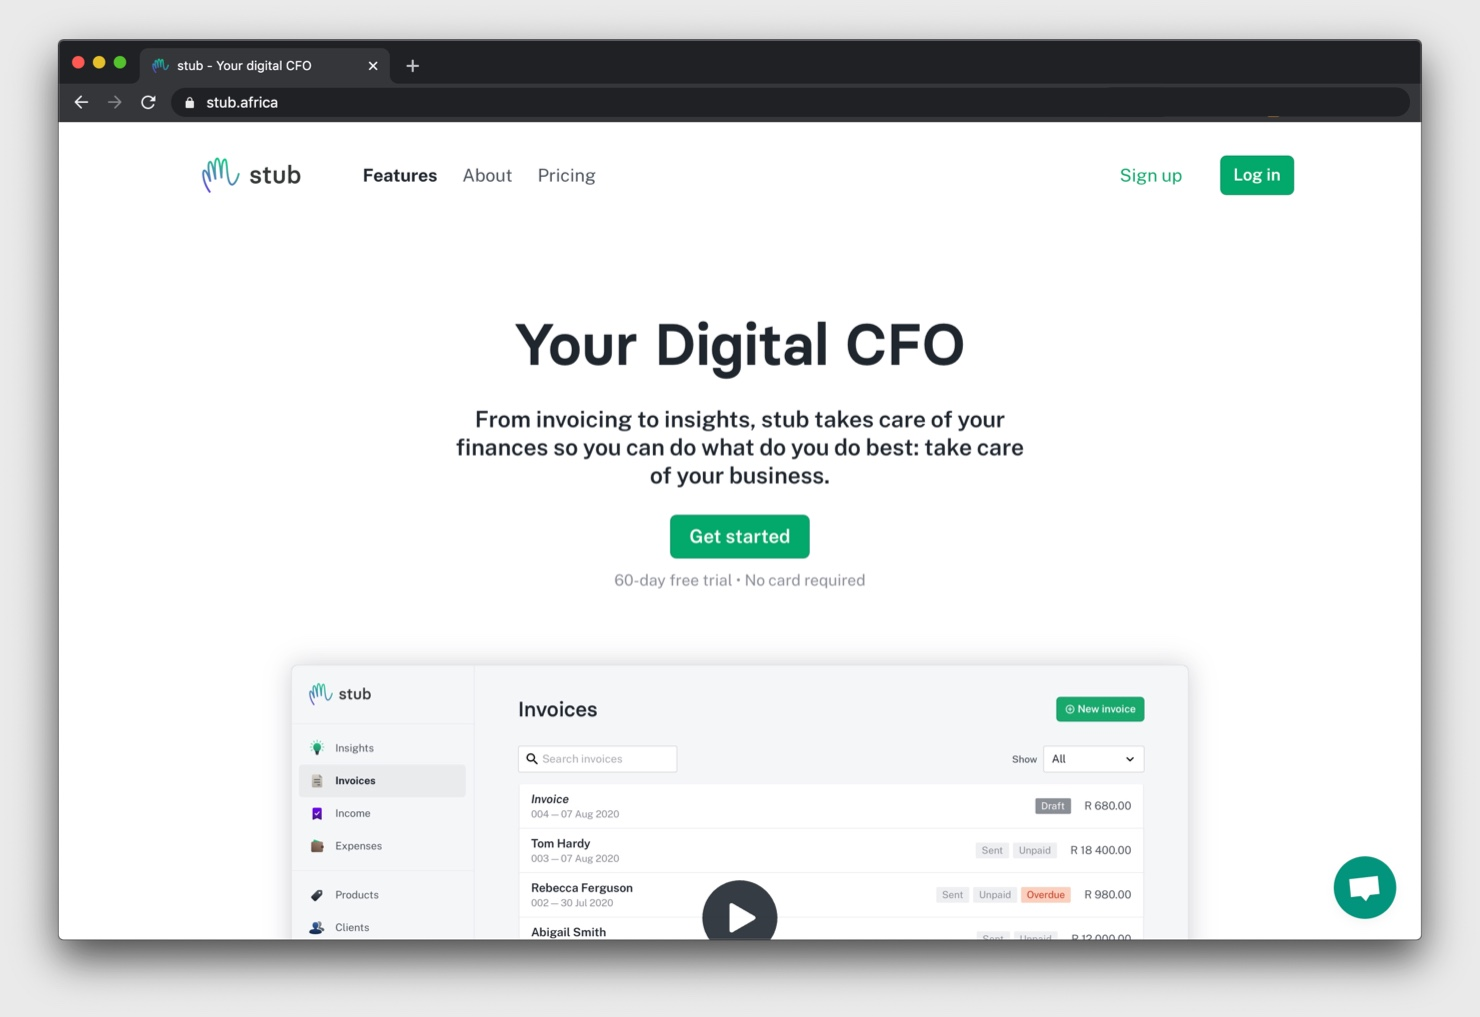
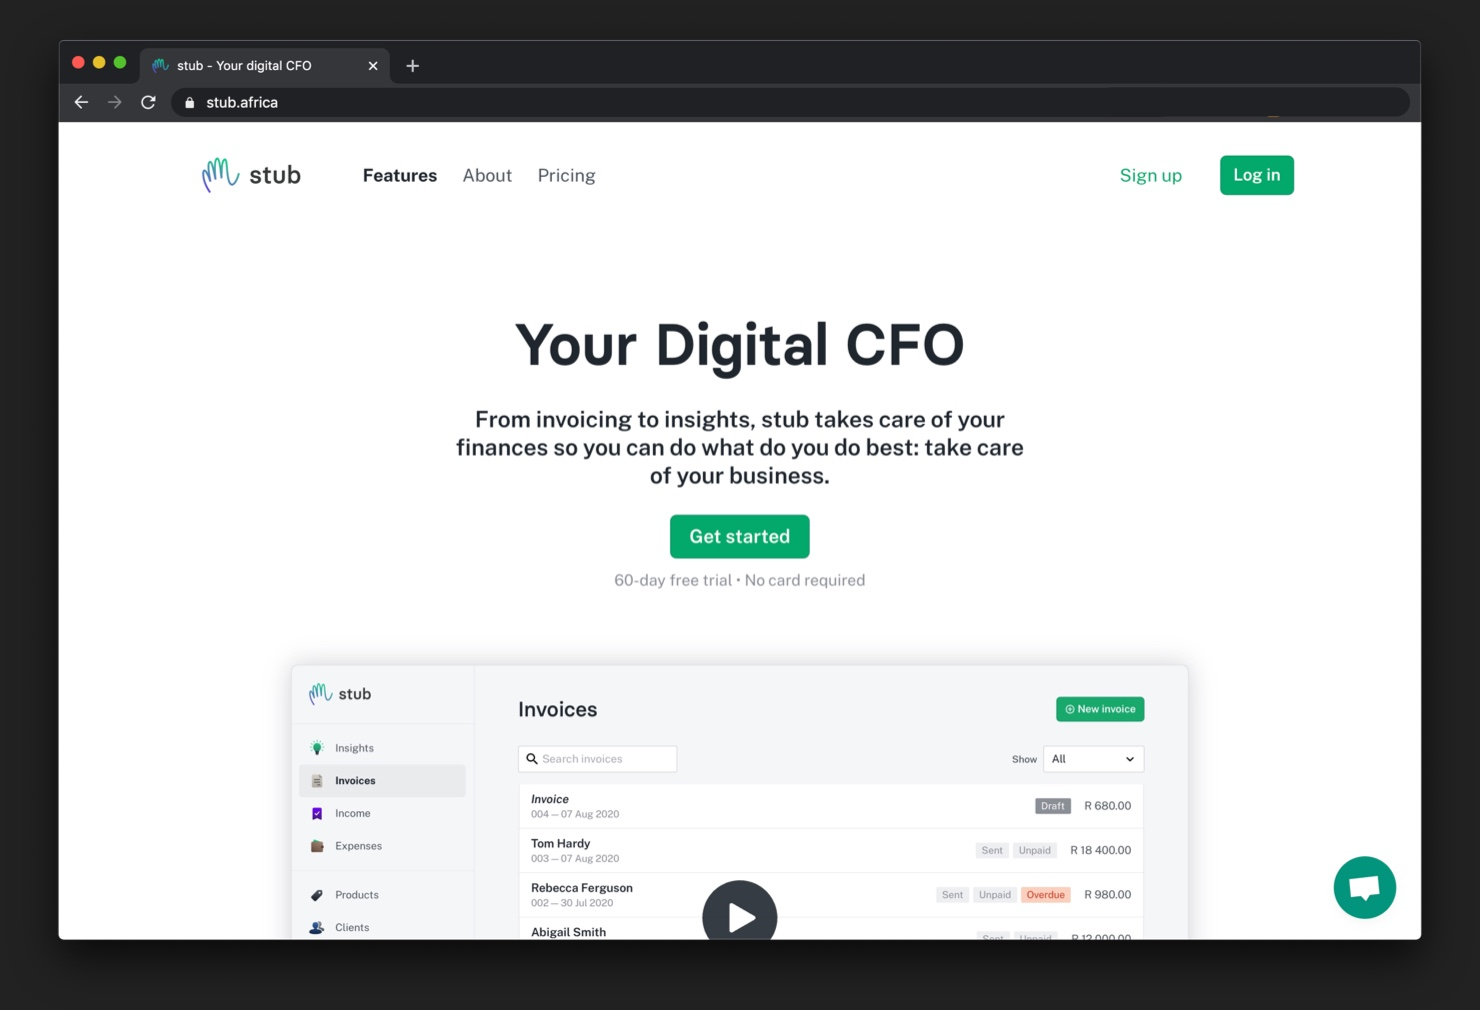
dark mode!

diff --git a/experience.html b/experience.html
@@ -7,7 +7,7 @@ title: Experience
 <img class="profilepic" src="{{ site.url }}/images/stuart_wiener_2020.jpg" alt="Stuart Wiener">
 
 <h1>Stuart Wiener</h1>
-<p class="content content--single">I'm a designer and design leader from sunny South&nbsp;Africa. This is my detailed profile and career experience so far.</p>
+<p class="content">I'm a designer and design leader from sunny South&nbsp;Africa. This is my detailed profile and career experience so far.</p>
 
 <!-- <h3>Experience</h3> -->
 
@@ -21,7 +21,7 @@ title: Experience
     </div>
     <div class="content">
         <p>I lead the design team responsible for Absa’s banking app. We work closely with product leaders, engineers, business partners and our other channels to design and ship financial services to customers. Our design work covers everything from discovery, concept development, detailed design, validation and delivery.</p>
-        <p class="sidebar">In 2018 I initiated and led a <a href="{% link absa.html %}" target="_blank">full redesign of the app</a> as part of an overall bank rebrand. We fixed the information architecture and implemented a design system for the app. This provided the fundamental framework for the growth of the app since. At the same time, I led the design of the first WhatsApp-based banking service at Absa (and in the world, at the time).</p>
+        <p class="sidebar">In 2018 I initiated and led a <a href="{% link absa.html %}">full redesign of the app</a> as part of an overall bank rebrand. We fixed the information architecture and implemented a design system for the app. This provided the fundamental framework for the growth of the app since. At the same time, I led the design of the first WhatsApp-based banking service at Absa (and in the world, at the time).</p>
         <p class="sidebar">Since we redesigned the app I’ve led many projects to design and ship financial services to  customers, evolving the app along the way.</p>
         <p class="sidebar">My work has resulted in Absa’s App Store rating improving from 2.7 to 4.7 out of 5, on both iOS and Android. The number of active customers using the app has grown by approximately 60% year-on-year, to 1.8m active users today. Customer engagement has gone from about 1 session per week to over 20 sessions per month.</p>
         <p class="sidebar">I've also shaped the design organisation at Absa. I created a skill development framework for designers to work with their mentors to grow their design skills. I helped develop our grad program. And I’ve hired and mentored many designers across the teams.</p>
@@ -37,7 +37,7 @@ title: Experience
         </div>
     </div>
     <div class="content">
-        <p>Together with 2 co-founders, I started a company called <a href="{% link stub.html %}" target="_blank">Stub</a> with a mission to help more small businesses in Africa grow and succeed.</p>
+        <p>Together with 2 co-founders, I started a company called <a href="{% link stub.html %}">Stub</a> with a mission to help more small businesses in Africa grow and succeed.</p>
         <p class="sidebar">Stub is an invoicing and accounting platform that is really easy to use, so that anyone, no matter their financial know-how, can manage their money. It automates some common tasks, helping business owners get paid quickly. And as people use our toolset it learns about their business and provides insights into their specific market. I oversee the product and I designed and built the front-end.</p>
         <p class="sidebar">We’ve validated that Stub is something that people actually want—we’ve acquired a few passionate (and paying) customers, and we’re actively building to grow our market.</p>
         <p class="sidebar">We’ve built a small, close-knit team where we debate ideas strongly and frankly, always exploring different product possibilities. We’re in a very early stage of the business and looking at options of how we might scale and grow.</p>

diff --git a/css/main.scss b/css/main.scss
@@ -65,12 +65,12 @@
 }
 
   :root {
-    --background: #FFFFFF;
-    --elevated-bg: #FFFFFF;
-    --primary: #111111;
-    --secondary: #333333;
-    --tertiary: #A2A2A2;
-    --color-1: #2383F4;
+    --background: #222222;
+    --elevated-bg: #222222;
+    --primary: #FFFFFF;
+    --secondary: #EEEEEE;
+    --tertiary: #999999;
+    --color-1: #69AEFF;
   }
 
 // Import partials from `sass_dir` (defaults to `_sass`)

diff --git a/_sass/_layout.scss b/_sass/_layout.scss
@@ -39,6 +39,7 @@ html, body {
   img {
     margin: 20px 0 10px;
     border-radius: 4px;
+    border: none;
   }
   img.narrow {
     max-width: 740px;
